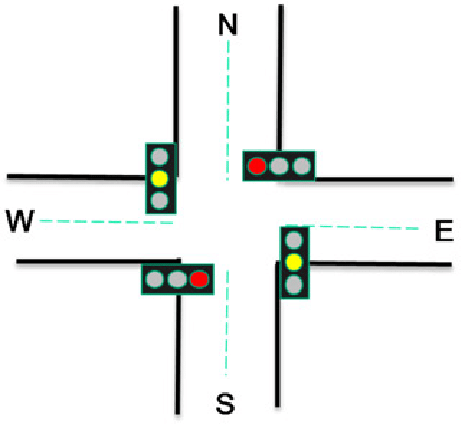
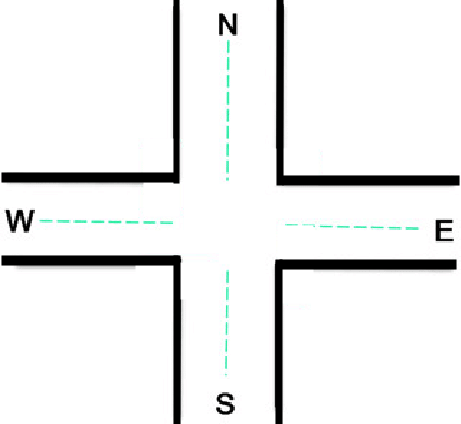
cleaned background image and resized window

diff --git a/traffic_simulation.py b/traffic_simulation.py
@@ -1,7 +1,8 @@
 import pyglet
 
-window = pyglet.window.Window(width=800, height=600, caption='Traffic Simulation')
+
 image = pyglet.resource.image('Typical-traffic-light-system-at-a-four-way-intersection.png')
+window = pyglet.window.Window(width = image.width, height=image.height, caption='Traffic Simulation')
 
 @window.event
 def on_draw():
